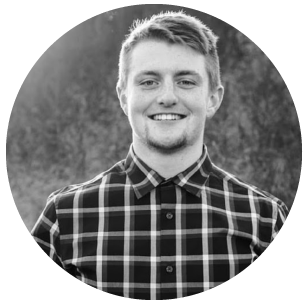
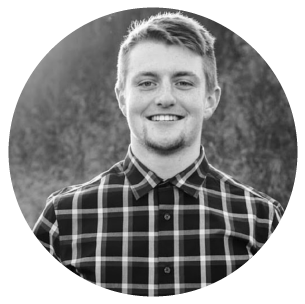
adjusted code

diff --git a/css/main.css b/css/main.css
@@ -5,6 +5,7 @@ body {
 	font-family: Helvetica, sans-serif;
 	font-size: 15px;
 	color: white;
+
 }
 
 
@@ -13,9 +14,10 @@ body {
 }
 
 .mainContainer {
-	width: 100%;
+	width: 1280px;
 	margin: 0 auto;
 	font-size: 15px;
+	background-image: url('https://images.pexels.com/photos/3786208/pexels-photo-3786208.jpeg?crop=entropy&cs=srgb&dl=photo-of-fern-leaves-3786208.jpg&fit=crop&fm=jpg&h=1919&w=1280');
 }
 
 .mainHeader {
@@ -25,7 +27,7 @@ body {
 	background-color: #706a5b;
 	display: flex;
 	flex-wrap: wrap;
-	opacity: .5;
+	position: fixed;
 }
 
 .logo {
@@ -33,6 +35,7 @@ body {
 	height: 90px;
 	padding-top: 20px;
 	padding-left: 30px;
+	position: static;
 }
 
 .mainNav {
@@ -56,7 +59,7 @@ body {
 	color: white;
 	font-size: 15px;
 	text-decoration: none;
-	margin-left: 40px;
+	margin-left: 30px;
 	margin-top: 10px;
 	padding: 10px;
 	text-transform: uppercase;
@@ -76,14 +79,22 @@ body {
 	color: #a9a9a9;
 }
 
-.banner {
+
+
+
+
+
+
+.bodyContainer {
 	width: 100%;
-	height: 100px;
+	height: 400px;
 
 }
 
 .profiles {
-	padding-left: 35px;
+	padding-top: 300px;
+	padding-left: 40px;
+	position: static;
 }
 
 .profiles img:hover {
@@ -91,13 +102,22 @@ body {
 	cursor: pointer;
 }
 
+
+
+
+
+#footerNav {
+	width: 100%;
+	height: 100px;
+	margin-top: 60px;	
+}
 .footerNav {
 	width: 100%;
 	height: 130px;
-	margin-top: 100px;
-	padding-left: 650px;
+	margin-top: 670px;
+	padding-left: 620px;
 	background-color: #706a5b;
-	opacity: .5;	
+	opacity: .7;	
 }
 
 
@@ -109,13 +129,12 @@ body {
 	float: left;
 } 
 
-
 .footerNav ul li a {
 	display: block;
 	color: white;
 	font-size: 15px;
 	text-decoration: none;
-	margin-left: 40px;
+	margin-left: 30px;
 	margin-top: 50px;
 	padding: 10px;
 	text-transform: uppercase;

diff --git a/index.html b/index.html
@@ -22,32 +22,37 @@
 								<li><a>Our Team</a></li>
 								<li><a>Awards</a></li>
 								<li><a>Join Us</a></li>
-								<li><a>Hire Us</a></li>
+								<li><a>Work With Us</a></li>
 							</ul>
 					</nav>
 				</div>
 			</header>
-			<div class="banner">
-				<img src="images/background.jpg" alt="background image">
-			</div>
 
-			<div class="profiles">
-				<img src="images/spencer.png" alt="Spencer Mellor Image" width="400px" height="400px">
-				<img src="images/jordan.png" alt="Jordan Andrigo Image" width="400px" height="400px">
-				<img src="images/tessa.png" alt="Tessa Cooper Image" width="400px" height="400px">
+			<div class="bodyContainer">
+				<!--<section class="banner">
+					<img src="images/background.png" alt="background image">
+				</section> -->
+
+				<section class="profiles">
+					<img src="images/spencer.png" alt="Spencer Mellor Image" width="400px" height="400px">
+					<img src="images/jordan2.png" alt="Jordan Andrigo Image" width="400px" height="400px">
+					<img src="images/tessa.png" alt="Tessa Cooper Image" width="400px" height="400px">
 				
+				</section>
 			</div>
-		</div>
 
+			<footer>
 				<nav class="footerNav">
-					<h2 class="hidden">Footer Nav</h2>
-						<ul>
-							<li><a>Our Team</a></li>
-							<li><a>Awards</a></li>
-							<li><a>Join Us</a></li>
-							<li><a>Hire Us</a></li>
-						</ul>	
+					<h2 class="hidden">Footer Naviagtion</h2>
+					<ul>
+						<li><a>Our Team</a></li>
+						<li><a>Awards</a></li>
+						<li><a>Join Us</a></li>
+						<li><a>Work With Us</a></li>
+					</ul>
 				</nav>
+			</footer>
+		</div>
 	</main>
 	
 <script src="js/main.js"></script>
